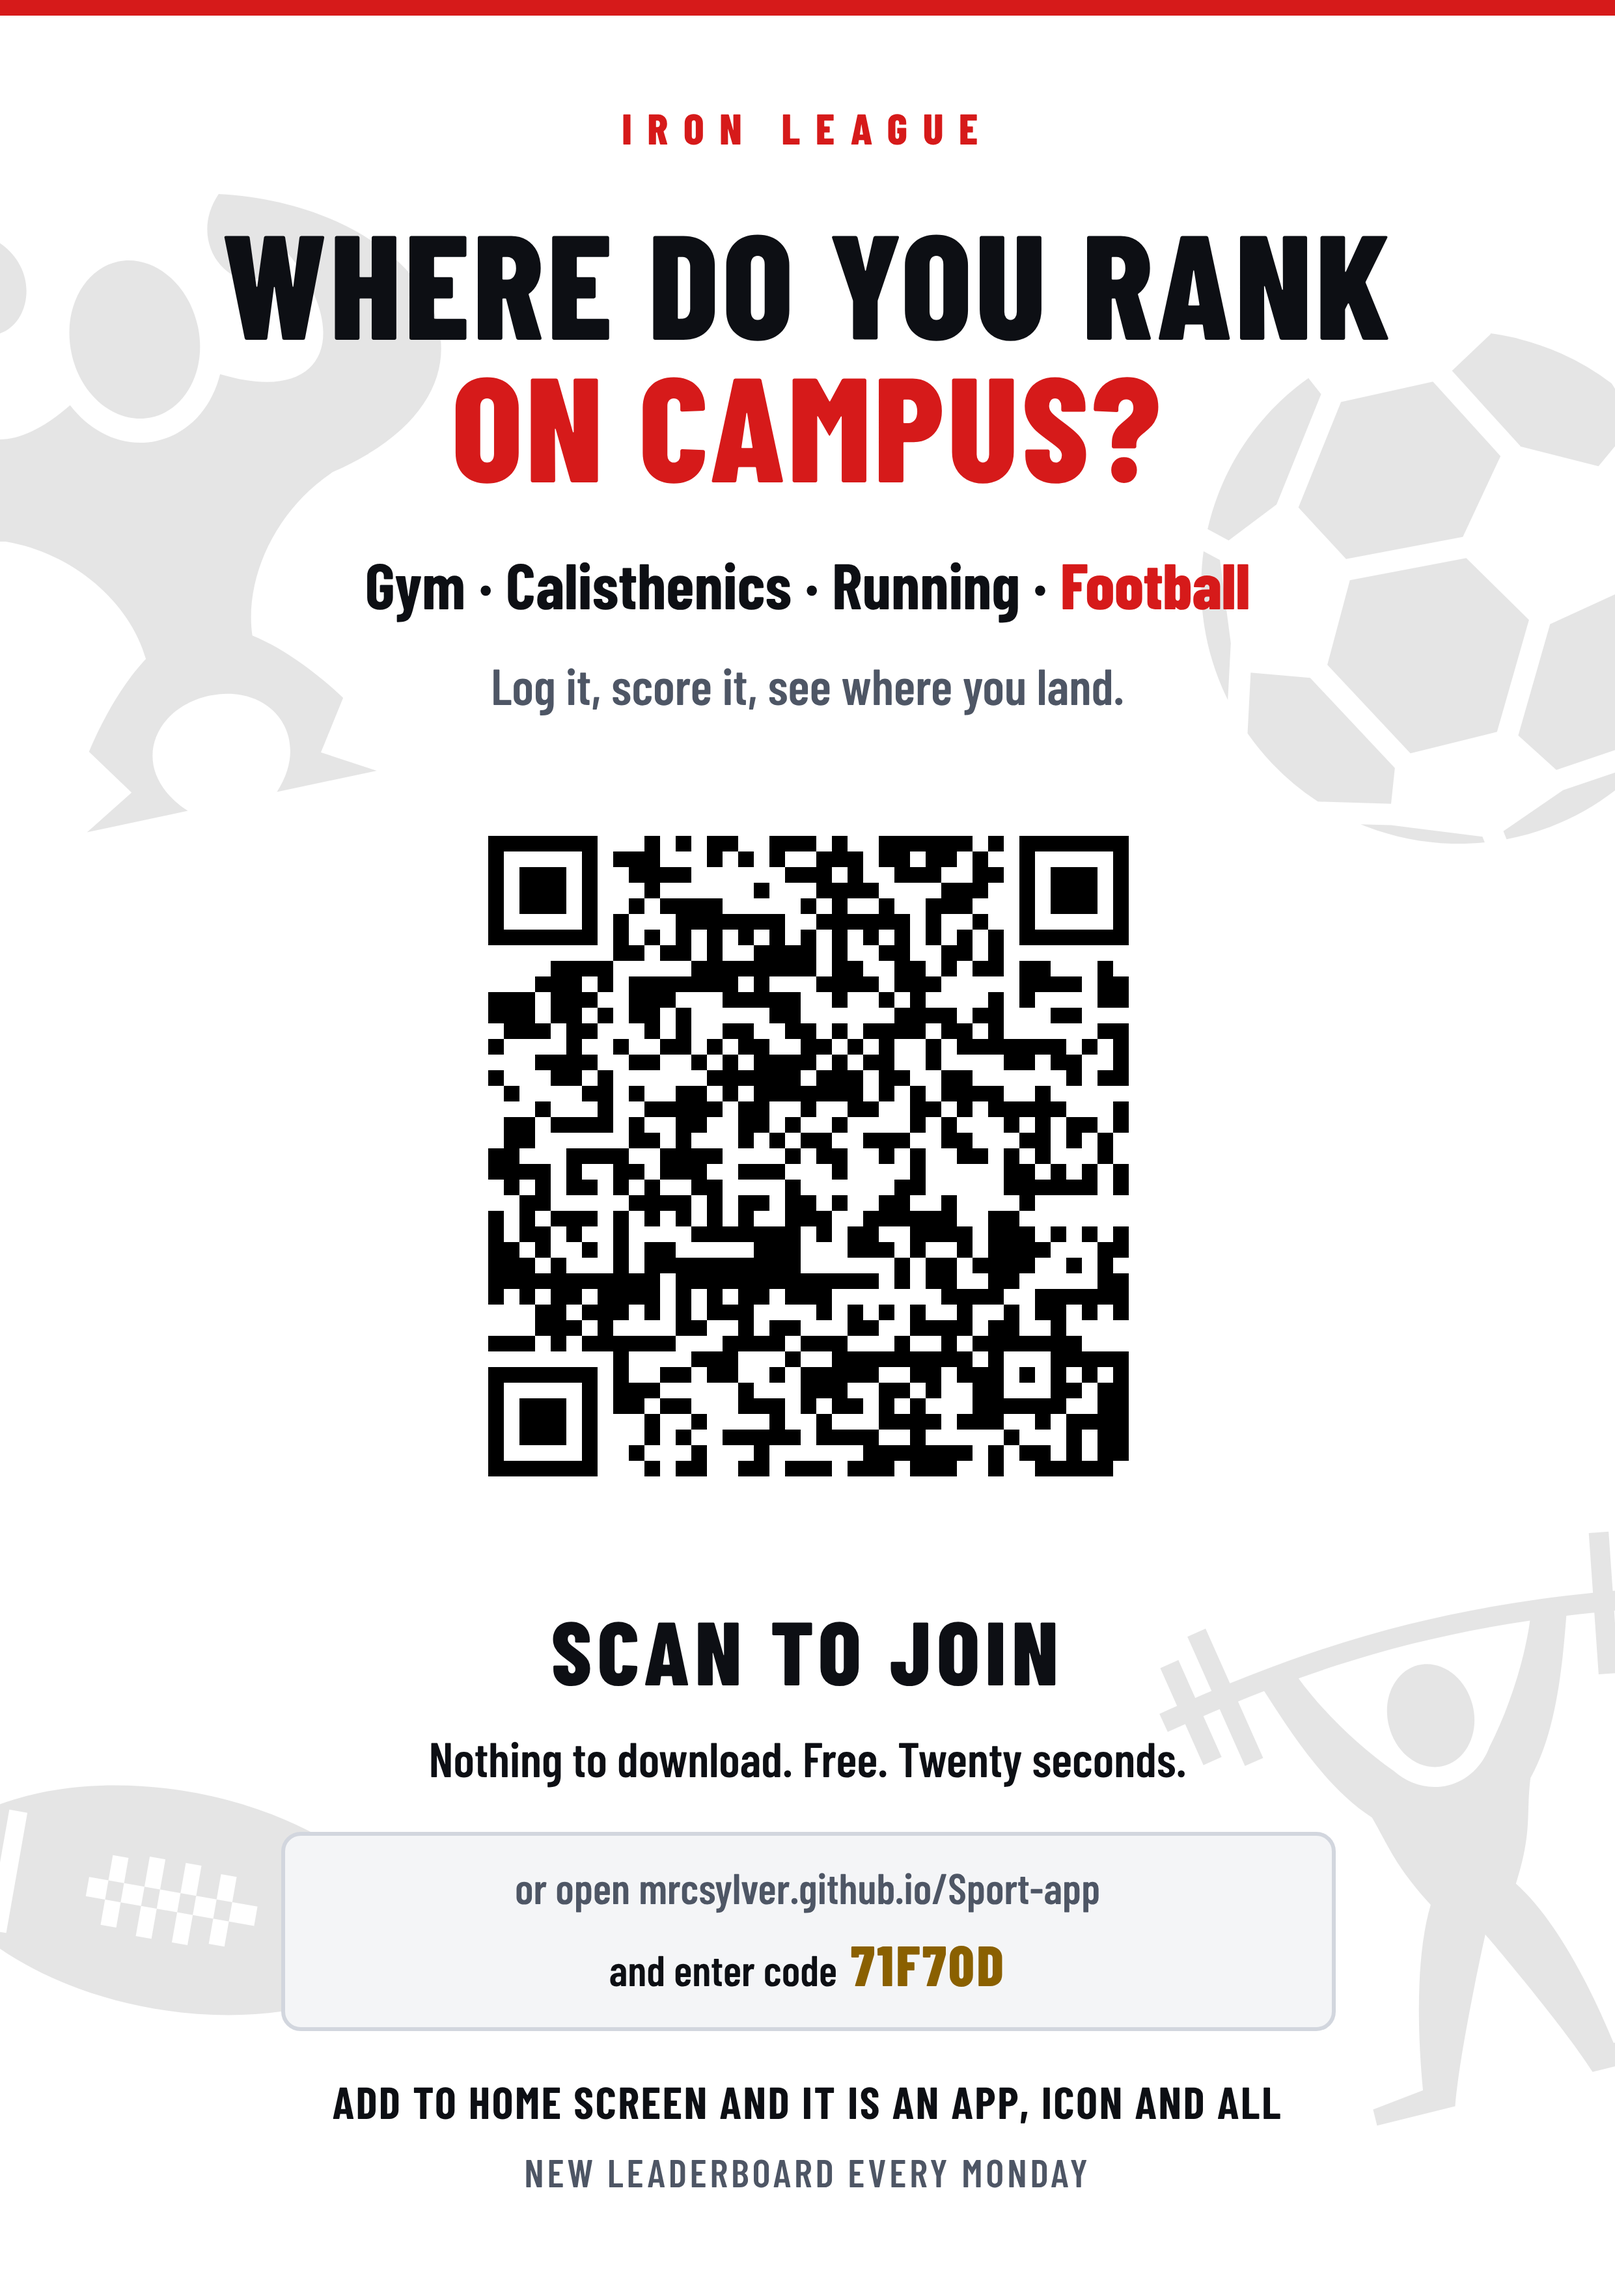
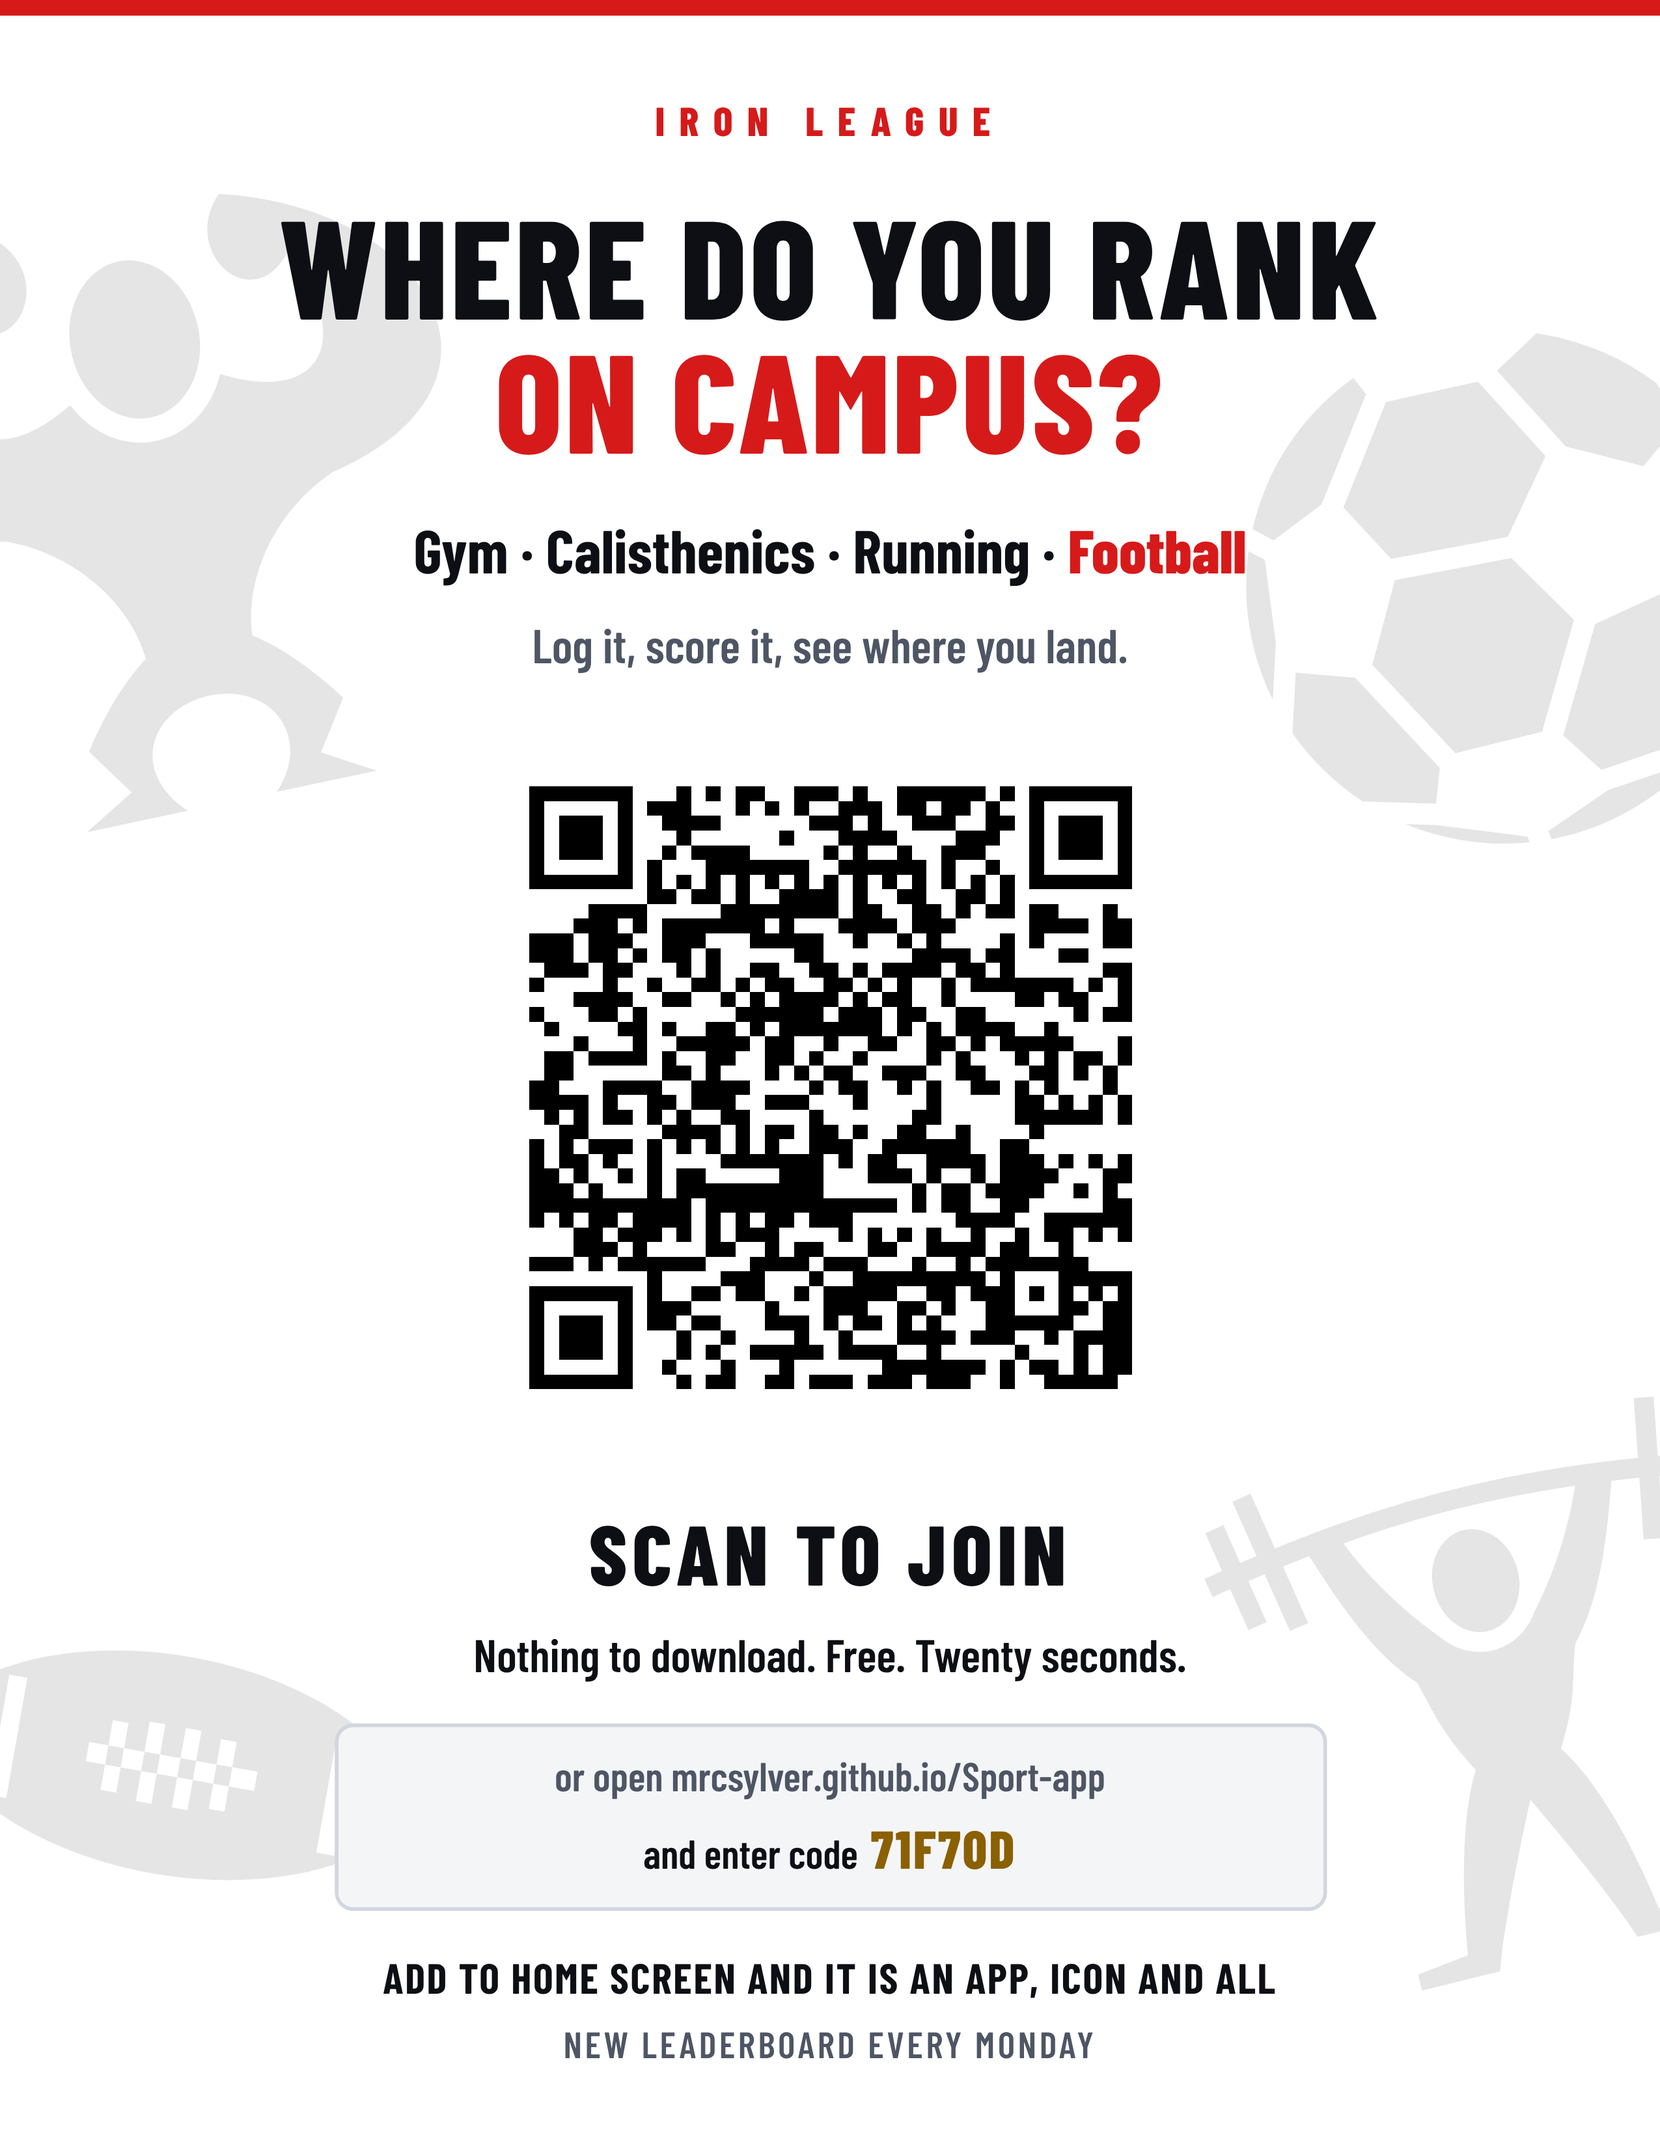
Flyers on US Letter, which is the paper the printer actually holds
A4 is 8.27 x 11.69in and Letter is 8.5 x 11in -- wider, and two thirds of an
inch shorter. Sending the A4 sheet to a Letter printer is what cut the head
and the feet off it.

The poster is still laid out once, in a fixed 827x1169 box; the box is now
scaled uniformly onto whichever sheet is asked for, so neither version is
stretched and the two are the same design. The bleed -- the red rule and the
sports behind the text -- sits on the body instead of inside that box, so it
runs to the real edges of the real paper.

Letter is the default and keeps the plain filename. --paper a4 and
--paper both are there for anyone printing in a metric country.

Claude-Session: https://claude.ai/code/session_01J9eiAisCrNTP7KmGByDZi8

diff --git a/tools/flyer/flyer.html b/tools/flyer/flyer.html
@@ -4,11 +4,11 @@
 <meta charset="utf-8">
 <title>Iron League — flyer</title>
 <!--
-  A4 at 300 dpi, built in the browser and screenshotted, rather than drawn in
-  Python. Three reasons it is worth the detour: it uses the app's OWN font
-  file, its own colours, and its own vendored game-icons, so a poster on a
-  wall and the screen somebody lands on afterwards are plainly the same
-  thing. Nothing here is a lookalike.
+  A printable sheet at 300 dpi, built in the browser and screenshotted,
+  rather than drawn in Python. Three reasons it is worth the detour: it uses
+  the app's OWN font file, its own colours, and its own vendored game-icons,
+  so a poster on a wall and the screen somebody lands on afterwards are
+  plainly the same thing. Nothing here is a lookalike.
 
   tools/flyer/build_flyer.py fills the placeholders and drives the shot.
 -->
@@ -22,7 +22,14 @@
     --bg:#08090c; --panel:#161923; --line:#2a2f37;
     --txt:#eef1f6; --muted:#aab2c0; --red:#ff2e2e; --gold:#ffc93c;
     --ghost:rgba(255,255,255,.13);
+    /* The sheet, at 96 CSS px to the inch. A4 is the default because it is
+       what the design box below is laid out in. */
+    --pw:827px; --ph:1169px; --fit:1;
   }
+  /* US Letter: 8.5in x 11in. Wider than A4 and two thirds of an inch
+     shorter, which is exactly why an A4 poster sent to a Letter printer
+     comes back with its head and feet cut off. */
+  .letter { --pw:850px; --ph:1100px; --fit:.9409; }
   .light {
     --bg:#ffffff; --panel:#f4f5f7; --line:#d2d6de;
     --txt:#0d0f14; --muted:#4e5665; --red:#d61a1a; --gold:#8a6000;
@@ -30,10 +37,10 @@
   }
 
   html, body { margin:0; padding:0; }
-  /* 8.27in x 11.69in at 96 CSS px/in. The shot is taken at 3x, which lands
-     on 2481 x 3507 — A4 at 300 dpi. */
+  /* The paper. The shot is taken at 3x, so A4 lands on 2481 x 3507 and
+     Letter on 2550 x 3300 — both 300 dpi. */
   body {
-    width:827px; height:1169px;
+    width:var(--pw); height:var(--ph);
     background:var(--bg); color:var(--txt);
     font-family:'Barlow Condensed', system-ui, sans-serif;
     position:relative; overflow:hidden;
@@ -54,7 +61,17 @@
   .bg .i3 { width:320px; height:320px; left:-72px;  bottom:36px; transform:rotate(10deg); }
   .bg .i4 { width:290px; height:290px; right:-66px; bottom:84px; transform:rotate(-14deg); }
 
-  .wrap { position:relative; z-index:1; height:100%;
+  /* The poster is laid out ONCE, in a fixed 827x1169 box, and then scaled
+     to fit whatever paper it is going on. Uniformly — so nothing is
+     stretched and the only difference between the two sheets is how big the
+     same poster comes out. On Letter that is 94%, which on the wall is no
+     smaller, because Letter is the wider sheet of the two.
+
+     The red rule and the sports behind it sit on the body instead, not in
+     here, so they bleed to the real edges of whichever paper it is. */
+  .wrap { position:absolute; left:50%; top:50%; z-index:1;
+          width:827px; height:1169px;
+          transform:translate(-50%, -50%) scale(var(--fit));
           display:flex; flex-direction:column; align-items:center;
           justify-content:center; padding:34px 0 26px; box-sizing:border-box; }
 

diff --git a/tools/flyer/shoot.js b/tools/flyer/shoot.js
@@ -1,11 +1,17 @@
-/* A4 at 300 dpi out of the browser: 794 x 1123 CSS pixels at 3x.
-   deviceScaleFactor rather than a bigger viewport, so every length in the
-   stylesheet stays the one the app uses and only the output is denser. */
+/* The sheet out of the browser at 300 dpi: the page's own CSS pixel size at
+   3x. deviceScaleFactor rather than a bigger viewport, so every length in
+   the stylesheet stays the one the app uses and only the output is denser.
+
+   A4     827 x 1169 CSS px -> 2481 x 3507
+   Letter 850 x 1100 CSS px -> 2550 x 3300 */
 const { chromium } = require('/opt/node22/lib/node_modules/playwright');
 (async () => {
-  const [url, out] = process.argv.slice(2);
+  const [url, out, w, h] = process.argv.slice(2);
   const b = await chromium.launch({ executablePath: '/opt/pw-browsers/chromium-1194/chrome-linux/chrome' });
-  const pg = await b.newPage({ colorScheme: "dark", viewport: { width: 827, height: 1169 }, deviceScaleFactor: 3 });
+  const pg = await b.newPage({
+    colorScheme: "dark",
+    viewport: { width: Number(w) || 827, height: Number(h) || 1169 },
+    deviceScaleFactor: 3 });
   await pg.goto(url, { waitUntil: 'networkidle' });
   await pg.evaluate(() => document.fonts.ready);
   await pg.waitForTimeout(300);

diff --git a/tools/flyer/build_flyer.py b/tools/flyer/build_flyer.py
@@ -2,10 +2,18 @@
 """A printable flyer for one league, built from the app's own front end.
 
     /usr/bin/python3 tools/flyer/build_flyer.py 843651
+    /usr/bin/python3 tools/flyer/build_flyer.py 843651 --paper a4
     /usr/bin/python3 tools/flyer/build_flyer.py 843651 --insta ironleague.campus
 
-Writes two A4 PNGs at 300 dpi into tools/flyer/out/: the dark one, which is
-the app, and a light one for a library printer.
+Writes PNGs at 300 dpi into tools/flyer/out/: a dark one, which is the app,
+and a light one for a library printer.
+
+PAPER. US Letter by default, because that is what the printer this gets sent
+to holds. A4 is 8.27in x 11.69in and Letter is 8.5in x 11in — the sheet is
+wider and two thirds of an inch shorter, so an A4 poster on a Letter printer
+comes back with its head and its feet cut off, which is what happened. The
+poster is laid out once and scaled to the sheet, so both come out as the
+same design and neither is stretched.
 
 WHY A BROWSER AND NOT PILLOW. The first version drew the page in Python with
 DejaVu, which is nobody's brand. This one loads styles.css, the real Barlow
@@ -23,7 +31,7 @@ the bare link leaves a stranger having to ask somebody for a code, and they
 will not.
 
 WHY THERE IS A LIGHT VERSION. The dark one is the app and looks like it. It
-is also a sheet of A4 at 95% coverage, which on a shared campus printer is
+is also a full sheet at 95% coverage, which on a shared campus printer is
 slow, expensive and streaked. The light one costs almost nothing and scans
 exactly as well -- a QR needs contrast, and black on white is the most
 contrast there is.
@@ -43,6 +51,14 @@ ROOT = os.path.dirname(os.path.dirname(HERE))
 OUT = os.path.join(HERE, "out")
 SITE = "https://mrcsylver.github.io/Sport-app/"
 PORT = 4537
+
+# CSS pixels at 96 to the inch; the shot is taken at 3x, so each of these
+# comes out at 300 dpi. The suffix is what the file is called, and Letter —
+# the default — carries no suffix, because it is the one being printed.
+PAPERS = {
+    "letter": {"w": 850, "h": 1100, "cls": "letter", "suffix": ""},
+    "a4": {"w": 827, "h": 1169, "cls": "", "suffix": "-a4"},
+}
 
 # game-icons.net, CC BY 3.0, the same four files the app draws avatars from.
 # muscle-up is somebody at the top of a pull-up; the football is drawn below,
@@ -106,7 +122,7 @@ def qr_svg(url, px=380):
             '<g fill="#000">%s</g></svg>' % (px, px, px, px, "".join(rects)))
 
 
-def page(code, light, insta):
+def page(code, light, insta, paper):
     art = icons()
     tmpl = open(os.path.join(HERE, "flyer.html"), encoding="utf-8").read()
     svgs = []
@@ -114,8 +130,9 @@ def page(code, light, insta):
         body = FOOTBALL if key == "__FOOTBALL__" else art[key]
         svgs.append('<svg class="i%d" viewBox="0 0 512 512">%s</svg>' % (i, body))
     social = ('<div class="c">@%s</div>' % insta) if insta else ""
+    classes = " ".join(c for c in ["light" if light else "", paper["cls"]] if c)
     return (tmpl
-            .replace("__THEME__", "light" if light else "")
+            .replace("__THEME__", classes)
             .replace("__BGICONS__", "".join(svgs))
             .replace("__QR__", qr_svg(SITE + "#/join/" + code))
             .replace("__CODE__", code)
@@ -136,29 +153,36 @@ def serve():
     return httpd
 
 
-def shoot(code, light, insta):
-    name = "flyer-%s%s.png" % (code, "-light" if light else "")
-    path = os.path.join(OUT, name)
-    tmp = os.path.join(HERE, "_page%s.html" % ("-light" if light else ""))
-    open(tmp, "w", encoding="utf-8").write(page(code, light, insta))
+def shoot(code, light, insta, paper):
+    tail = "%s%s" % (paper["suffix"], "-light" if light else "")
+    path = os.path.join(OUT, "flyer-%s%s.png" % (code, tail))
+    tmp = os.path.join(HERE, "_page%s.html" % tail)
+    open(tmp, "w", encoding="utf-8").write(page(code, light, insta, paper))
     subprocess.run(["node", os.path.join(HERE, "shoot.js"),
                     "http://127.0.0.1:%d/tools/flyer/%s" % (PORT, os.path.basename(tmp)),
-                    path], check=True)
+                    path, str(paper["w"]), str(paper["h"])], check=True)
     os.remove(tmp)
-    print("wrote %s" % os.path.relpath(path, ROOT))
+    print("wrote %s  (%d x %d)" % (os.path.relpath(path, ROOT),
+                                   paper["w"] * 3, paper["h"] * 3))
 
 
 def main():
     ap = argparse.ArgumentParser()
     ap.add_argument("code", nargs="?", default="843651")
     ap.add_argument("--insta", default="", help="instagram handle, without the @")
+    ap.add_argument("--paper", default="letter",
+                    choices=["letter", "a4", "both"],
+                    help="sheet to lay it out on (default: letter)")
     args = ap.parse_args()
+
+    want = ["letter", "a4"] if args.paper == "both" else [args.paper]
 
     os.makedirs(OUT, exist_ok=True)
     httpd = serve()
     try:
-        shoot(args.code, False, args.insta)
-        shoot(args.code, True, args.insta)
+        for name in want:
+            shoot(args.code, False, args.insta, PAPERS[name])
+            shoot(args.code, True, args.insta, PAPERS[name])
     finally:
         httpd.shutdown()
         httpd.server_close()
